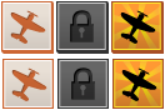
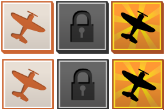
tweaking player selection screen, tweaking home page copy

diff --git a/apps/xyflyer/web/index.js b/apps/xyflyer/web/index.js
@@ -55,7 +55,7 @@ window.app = {
     return this.dynamicContent.html(this.originalHTML);
   },
   load: function() {
-    var asset, assets, index, _ref, _ref1, _ref2,
+    var asset, assets, index, _ref, _ref1, _ref2, _ref3,
       _this = this;
     this.$('.level_selector_menu').bind('touchstart.menu', function() {
       _this.$('.level_selector_menu').addClass('active');
@@ -123,6 +123,9 @@ window.app = {
         },
         registerEvent: function(eventInfo) {}
       });
+    }
+    if ((_ref3 = this.selectedPlayer) != null ? _ref3.hand : void 0) {
+      this.helper.setFlip(this.selectedPlayer.hand.toLowerCase());
     }
     return this.loadLevel();
   },
@@ -469,16 +472,20 @@ window.app = {
       return _this.selectPlayer($(e.currentTarget));
     });
     this.settings.find('.edit_player').bind('touchstart.edit_player', function(e) {
-      $(e.currentTarget).addClass('active');
-      $(document.body).one('touchend.edit_player', function(e) {
-        return $(e.currentTarget).removeClass('active');
+      var button;
+      button = $(e.currentTarget);
+      button.addClass('active');
+      $(document.body).one('touchend.edit_player', function() {
+        return button.removeClass('active');
       });
       return _this.editPlayer();
     });
     this.settings.find('.play_button').bind('touchstart.play', function(e) {
-      $(e.currentTarget).addClass('active');
-      $(document.body).one('touchend.play', function(e) {
-        return $(e.currentTarget).removeClass('active');
+      var button;
+      button = $(e.currentTarget);
+      button.addClass('active');
+      $(document.body).one('touchend.play', function() {
+        return button.removeClass('active');
       });
       return _this.hideMenu(_this.settings);
     });
@@ -498,6 +505,7 @@ window.app = {
       });
       _this.selectedPlayer.name = _this.settings.find('.form .name').html();
       _this.selectedPlayer.hand = _this.settings.find('.form .hand input:checked').val();
+      _this.helper.setFlip(_this.selectedPlayer.hand.toLowerCase());
       _this.savePlayer();
       _this.populatePlayer();
       return _this.showPlayer();

diff --git a/apps/xyflyer/css/index.css b/apps/xyflyer/css/index.css
@@ -456,7 +456,7 @@ body {
 .xyflyer .settings h2 {
     font-size: 24px;
     font-weight: normal;
-    margin: 12px 24px;
+    margin: 30px;
 }
 .xyflyer .settings .player_selection {
     position: relative;
@@ -464,7 +464,7 @@ body {
     margin: 0 24px;
 }
 .xyflyer .settings .player_selection table {
-    margin: -60px auto;
+    margin: -45px auto;
     text-align: center;
     border-spacing: 60px;
 }
@@ -481,12 +481,11 @@ body {
 }
 .xyflyer .settings .player_details {
     text-align: center;
-    height: 262px;
     margin-top: 12px;
     font-size: 18px;    
 }
 .xyflyer .settings .player_details h3 {
-    padding-top: 36px;
+    padding-top: 15px;
     margin: 0;
 }
 .xyflyer .settings .player_details .form {
@@ -519,7 +518,7 @@ body {
 }
 .xyflyer .settings .play_button {
     text-align: center;
-    margin-top: 24px;
+    margin-top: 60px;
 }
 .xyflyer .settings .play_button a {
     background-color: #24aac3;
@@ -697,12 +696,6 @@ body {
     .xyflyer .settings {
         height: 540px;
     }
-    
-    .xyflyer .settings .player_details {
-        text-align: center;
-        height: 270px;
-    }
-    
 }
 
 @media screen and (device-aspect-ratio: 40/71) and (orientation:landscape) {

diff --git a/apps/xyflyer/index.html b/apps/xyflyer/index.html
@@ -172,6 +172,10 @@
                         <p><span class='completed'>0</span> Levels Completed</p>
                         <p><span class='hand'>Right</span> Handed</p>
                         <p><a class='blue_button edit_player'><i class='icon-pencil'></i> Edit</a></p>
+                    
+                        <div class='play_button'>
+                            <a>Play <i class='icon-play'></i></a>
+                        </div>                        
                     </div>
                     <div class='form'>
                         <div class='name'></div> 
@@ -189,10 +193,6 @@
                             <a class='red_button icon-remove cancel'> Cancel</a>
                         </div>
                     </div>
-                </div>
-
-                <div class='play_button'>
-                    <a>Play <i class='icon-play'></i></a>
                 </div>
             </div>
 

diff --git a/apps/xyflyer/web/xyflyer.js b/apps/xyflyer/web/xyflyer.js
@@ -64,12 +64,12 @@ xyflyer.ViewHelper = (function() {
     return $(selector, this.el);
   };
 
-  ViewHelper.prototype.flip = function(boardElement) {
-    boardElement.css({
-      float: 'right'
+  ViewHelper.prototype.setFlip = function(direction) {
+    this.equationArea.css({
+      float: direction
     });
-    return this.equationArea.css({
-      float: 'left'
+    return this.board.el.css({
+      float: direction === 'left' ? 'right' : 'left'
     });
   };
 

diff --git a/build/common/pages/puzzles/lib/xyflyer.js b/build/common/pages/puzzles/lib/xyflyer.js
@@ -64,12 +64,12 @@ xyflyer.ViewHelper = (function() {
     return $(selector, this.el);
   };
 
-  ViewHelper.prototype.flip = function(boardElement) {
-    boardElement.css({
-      float: 'right'
+  ViewHelper.prototype.setFlip = function(direction) {
+    this.equationArea.css({
+      float: direction
     });
-    return this.equationArea.css({
-      float: 'left'
+    return this.board.el.css({
+      float: direction === 'left' ? 'right' : 'left'
     });
   };
 

diff --git a/build/common/templates/home.html b/build/common/templates/home.html
@@ -13,7 +13,7 @@
     </h3>
 
     <div class='section'>
-        <h2>For Those Who Crave Challenge</h2>
+        <h2>For Those Who Enjoy Challenge</h2>
         <p>The Puzzle School is focused on encouraging a specific process:</p>
         <p><b>
             The process of figuring out (puzzling out) a challenge, of developing and testing hypotheses, 

diff --git a/src/common/templates/home.html b/src/common/templates/home.html
@@ -13,7 +13,7 @@
     </h3>
 
     <div class='section'>
-        <h2>For Those Who Crave Challenge</h2>
+        <h2>For Those Who Enjoy Challenge</h2>
         <p>The Puzzle School is focused on encouraging a specific process:</p>
         <p><b>
             The process of figuring out (puzzling out) a challenge, of developing and testing hypotheses, 
